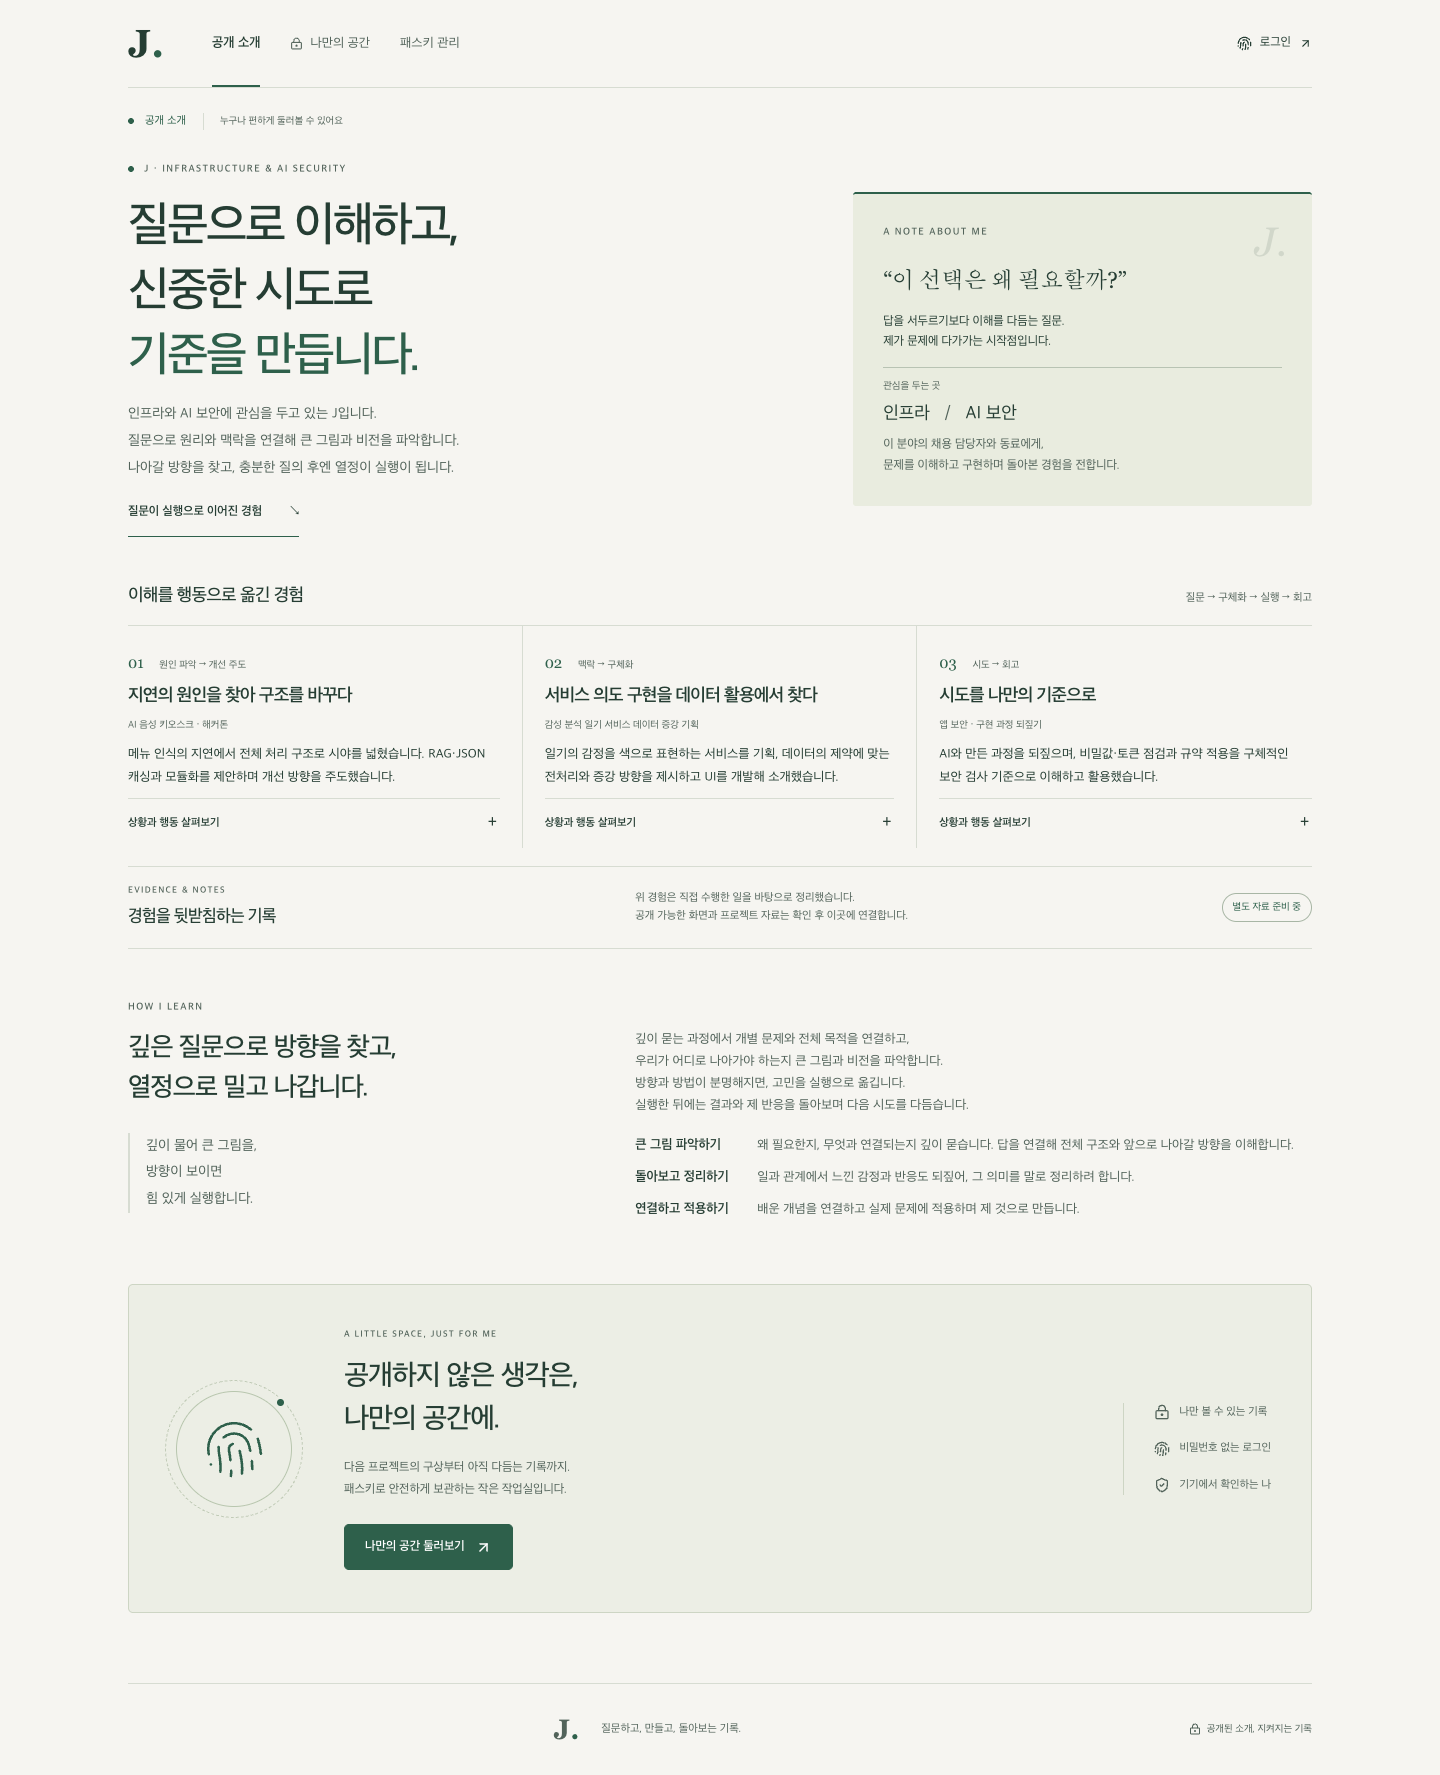
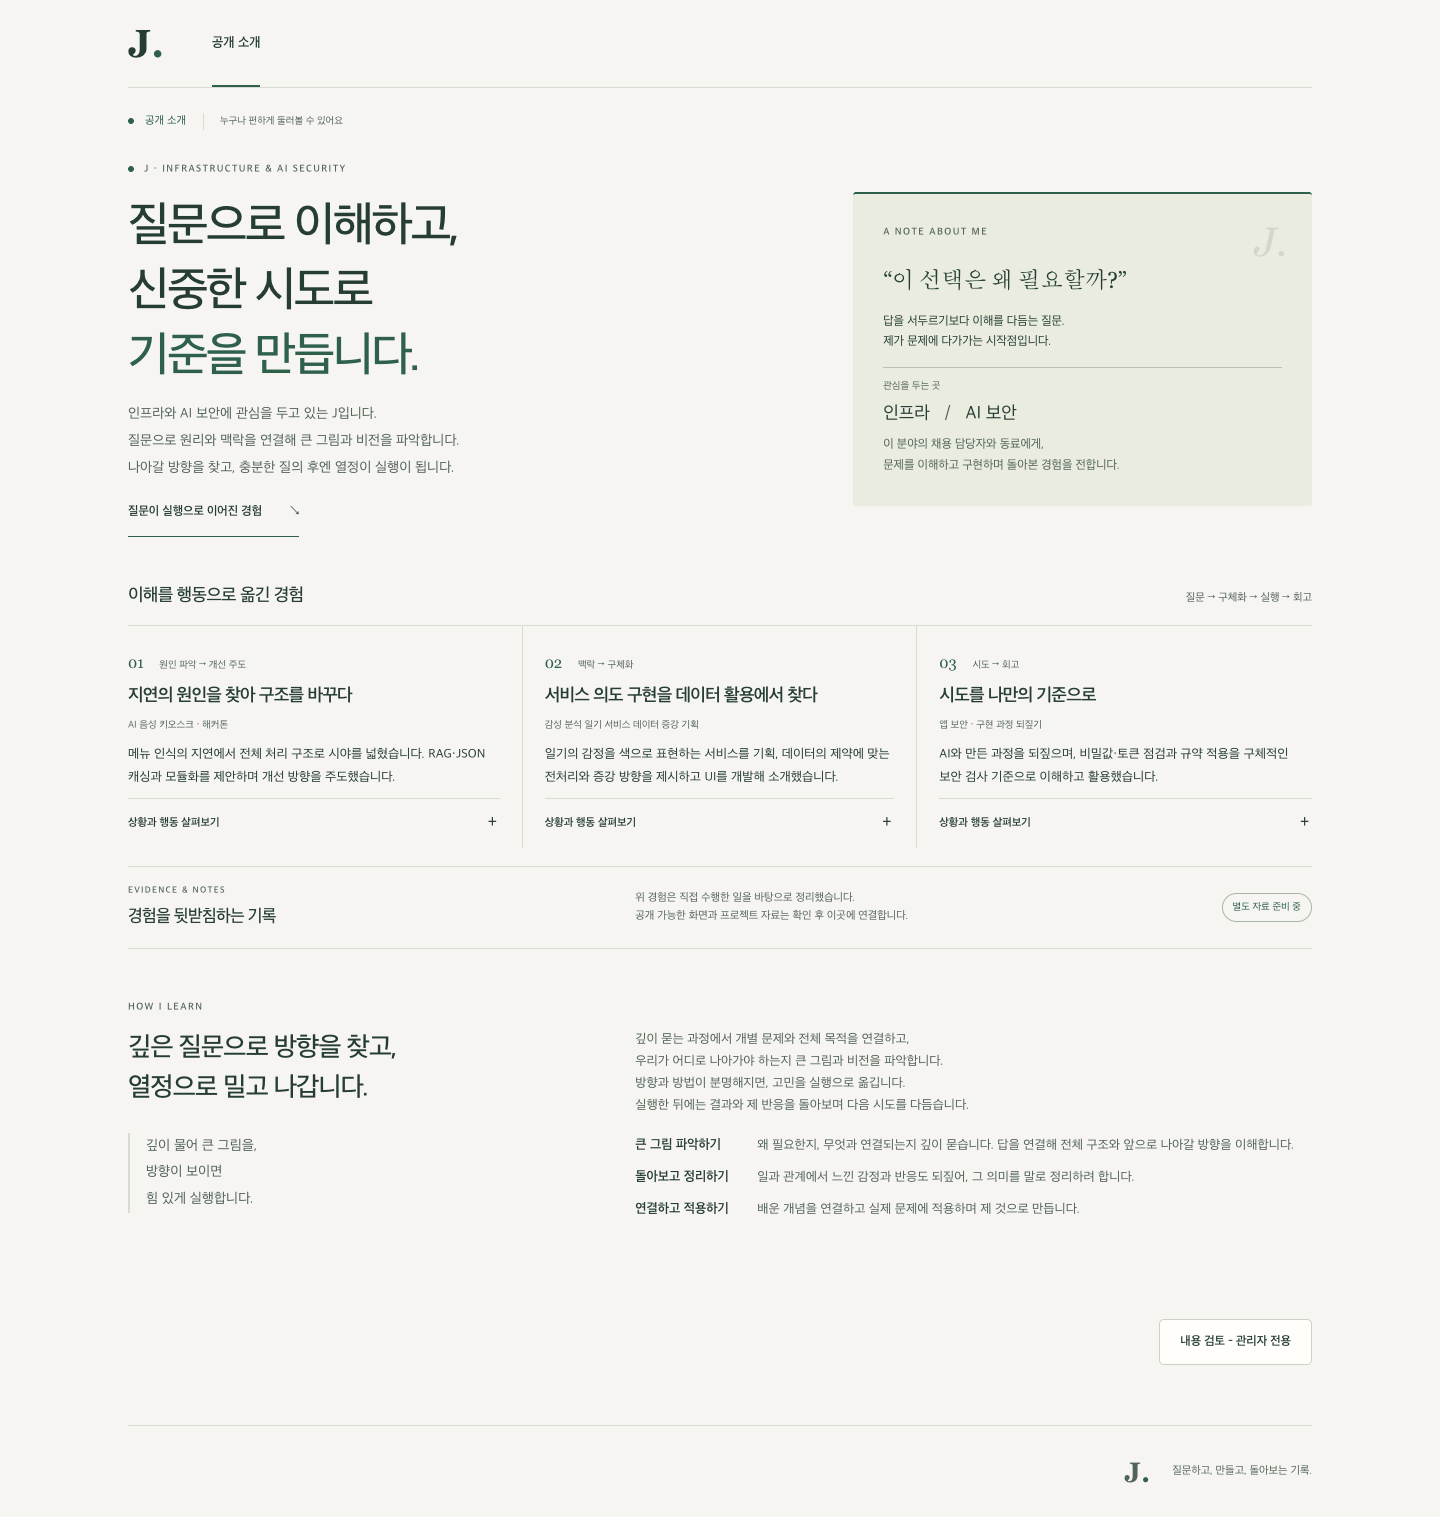
Record verified administrator login and direct review paths

diff --git a/docs/verification-results.md b/docs/verification-results.md
@@ -18,14 +18,14 @@
 | UX | U1–U6, 320·375px 넘침 없음, 대화상자 포커스·Escape·복귀, 자동 WCAG 검사 | evidence/ux/ |
 
 최종 실행: 아래 명령이 모두 통과했습니다. JSON 증거에는 실행 시각과 소스·테스트·lockfile의 SHA-256 요약을 포함합니다.
-운영 검증은 소스 커밋 `f2eaffc12d3e8b7ef583cf99430e9f5e89a7dea0`와 Vercel 배포 `dpl_EFQg8TahVdHdmWb4UjTmqSH7P8hB`를 기록합니다. 이후 문서·증거 커밋은 운영 코드 변경을 포함하지 않습니다.
+운영 검증은 소스 커밋 `15acf07168f73803044da11683d97b75f597e8f1`와 Vercel 배포 `dpl_2mAULuZkFqLuvWXEvZE8om7oJuAE`를 기록합니다. 이후 문서·증거 커밋은 운영 코드 변경을 포함하지 않습니다.
 
 ## 명령과 현재 결과
 
 - `npm run check`: 단위·HTTP 통합 테스트 10개 통과, TypeScript 형 검사 및 Vite·서버 빌드 성공.
 - `PLAYWRIGHT_CHANNEL=chrome npm run test:e2e`: 브라우저 시나리오 3개 모두 통과. 주요 화면 axe WCAG A/AA 위반 0건. 실기기 수동 검사 결과는 아님.
 - `npm run test:production`: npm start와 같은 운영 진입점, 운영 HTML·immutable 자산·API·CSP·컴파일된 초기 등록 CLI·해시 저장·Secure/HttpOnly/SameSite 쿠키 검사 통과. 내부 HTTP 스모크 검사이며, 외부 TLS는 아래 운영 검증으로 별도 확인.
-- GitHub Actions: 원격 실행 통과. [실행 기록](https://github.com/jkimsvsd-code/project-apprenticeship-08/actions/runs/40638245213).
+- GitHub Actions: 원격 실행 통과. [실행 기록](https://github.com/jkimsvsd-code/project-apprenticeship-08/actions/runs/40640876414).
 - Docker 이미지: 정의했으나 Docker 빌드는 실행하지 않음.
 
 ## 남은 실제 환경 검증
@@ -64,3 +64,7 @@
 펼친 안내·메모 폼은 320/375px 넘침 및 axe WCAG 위반 0건을 확인했습니다. 이 테스트의 Google·iCloud 값은 사용자 메모일 뿐, 실제 제공자를 사용했다는 의미가 아닙니다.
 
 동일한 메모 변경·실제 중복 거절·별도 키 등록을 운영 HTTPS에서도 통과했습니다. [운영 화면](../evidence/deployment/storage-memo-https.png)과 [운영 JSON의 storageMemo 항목](../evidence/deployment/https-verification.json)을 확인하세요.
+
+## 관리자 검토 진입
+
+공개 페이지의 ‘내용 검토 - 관리자 전용’ 버튼은 미로그인 시 `/login?next=%2Fvault`로 바로 이동하고 실제 WebAuthn 로그인 성공 후 본인 자료 3개를 표시합니다. 유효한 세션이 있으면 `/vault`로 직접 이동합니다. 실제 HTTPS에서 두 흐름을 확인했으며 운영 JSON의 adminEntry 항목에 기록했습니다.

diff --git a/docs/public-release.md b/docs/public-release.md
@@ -4,7 +4,7 @@ GitHub public 게시·Vercel HTTPS 배포·Neon 영속 DB 연결과 운영 WebAu
 
 - 결과물: https://project-apprenticeship-08.vercel.app
 - 소스: https://github.com/jkimsvsd-code/project-apprenticeship-08
-- 운영 코드: f2eaffc12d3e8b7ef583cf99430e9f5e89a7dea0
+- 운영 코드: 15acf07168f73803044da11683d97b75f597e8f1
 - 운영 증거: [HTTPS 요청·응답](../evidence/deployment/https-verification.json), [검증 결과](verification-results.md).
 
 ## 완료한 점검
